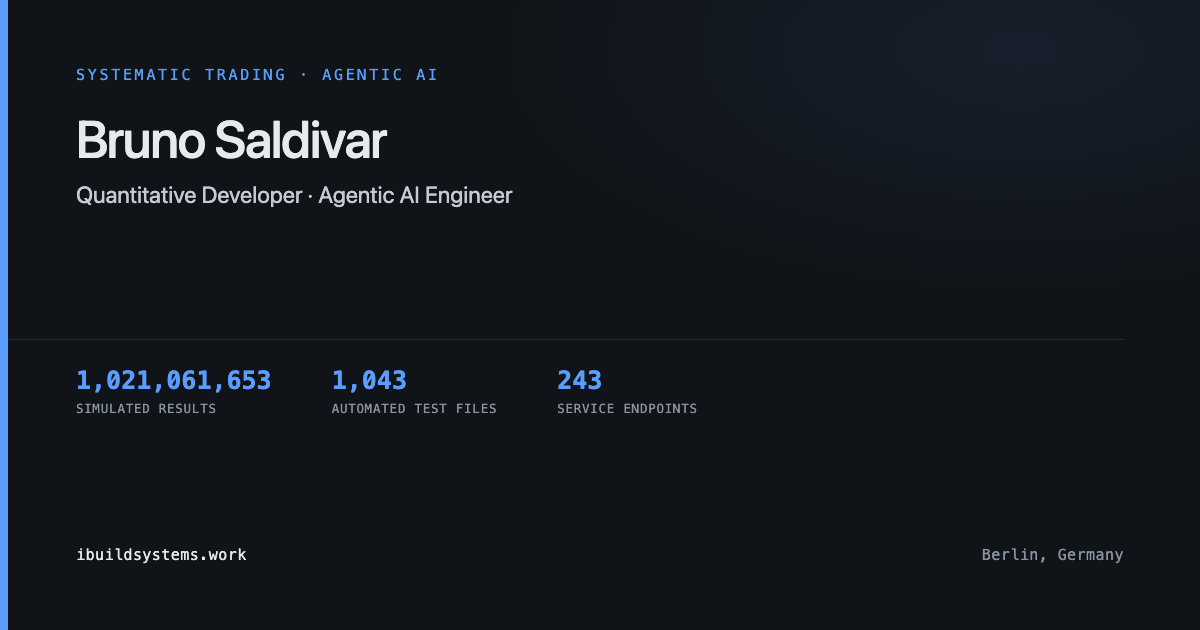
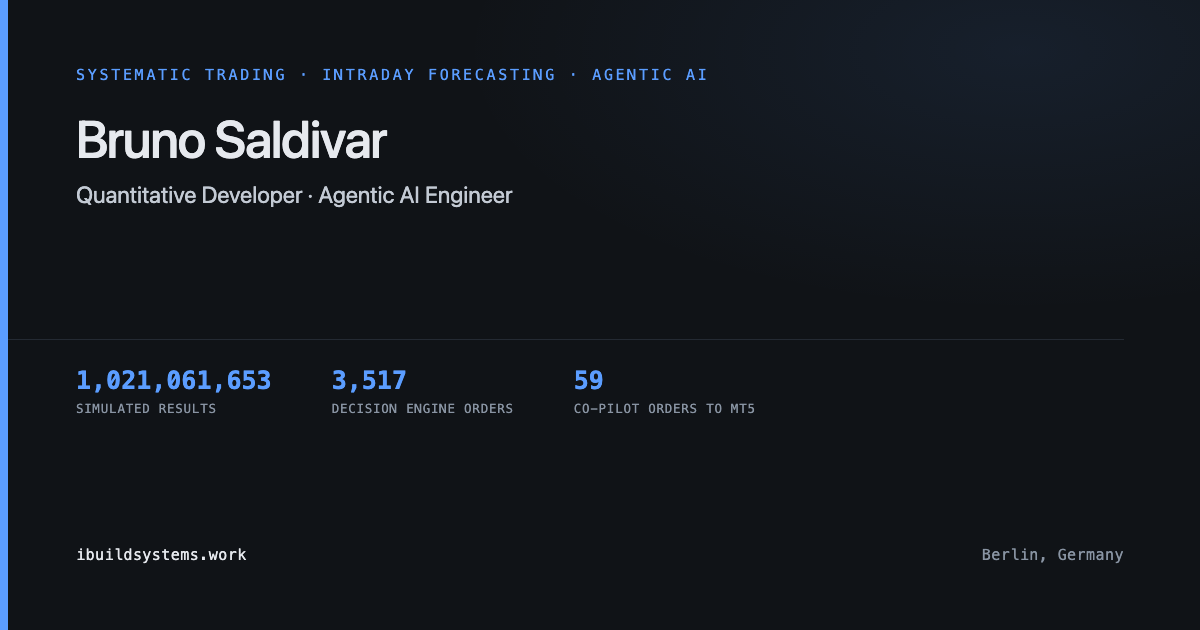
site: social card with result figures (1,021,061,653 simulated results, 3,517 decision engine orders, 59 co-pilot orders to MT5)

diff --git a/og-card.source.html b/og-card.source.html
@@ -5,6 +5,7 @@
      2026-10-15: 857 test files y 243 endpoints remedidos (BORRADOR, sin push).
      2026-10-19: 883 test files remedidos sobre la app viva 6e3242acf8; 243 endpoints sin cambio.
      2026-10-30: 1,043 test files remedidos (measureAll) sobre la app viva 176c75edc; 243 endpoints sin cambio.
+     2026-11-16: cifras de resultado (CAPACIDADES Delta 16-nov): 3,517 ordenes del Decision Engine, 59 ordenes del co-pilot; fuera test files y endpoints.
      2026-10-20: rol = titulo provisional comun a todas las paginas (pedido de Bru, 20-oct). -->
 <!DOCTYPE html><html><head><meta charset="utf-8"><style>
 :root{--bg:#101317;--panel:#171b21;--fg:#e6e9ee;--dim:#8994a3;--hair:#242a33;--signal:#5b9dff;
@@ -26,6 +27,6 @@ body{justify-content:space-between;padding-left:0}
 .bar{position:absolute;left:0;top:0;bottom:0;width:8px;background:var(--signal)}
 .pad{padding-left:76px}</style></head><body style="position:relative">
 <div class="bar"></div>
-<div class="pad"><p class="kick">Systematic Trading · Agentic AI</p><p class="name" style="margin:24px 0 12px">Bruno Saldivar</p><p class="role">Quantitative Developer · Agentic AI Engineer</p></div>
-<div class="pad" style="padding-top:26px;border-top:1px solid var(--hair)"><div style="display:flex;gap:60px"><div class="fig"><b>1,021,061,653</b><span>SIMULATED RESULTS</span></div><div class="fig"><b>1,043</b><span>AUTOMATED TEST FILES</span></div><div class="fig"><b>243</b><span>SERVICE ENDPOINTS</span></div></div></div>
+<div class="pad"><p class="kick">Systematic Trading · Intraday Forecasting · Agentic AI</p><p class="name" style="margin:24px 0 12px">Bruno Saldivar</p><p class="role">Quantitative Developer · Agentic AI Engineer</p></div>
+<div class="pad" style="padding-top:26px;border-top:1px solid var(--hair)"><div style="display:flex;gap:60px"><div class="fig"><b>1,021,061,653</b><span>SIMULATED RESULTS</span></div><div class="fig"><b>3,517</b><span>DECISION ENGINE ORDERS</span></div><div class="fig"><b>59</b><span>CO-PILOT ORDERS TO MT5</span></div></div></div>
 <div class="pad foot" style="display:flex;justify-content:space-between"><b>ibuildsystems.work</b><span>Berlin, Germany</span></div></body></html>
